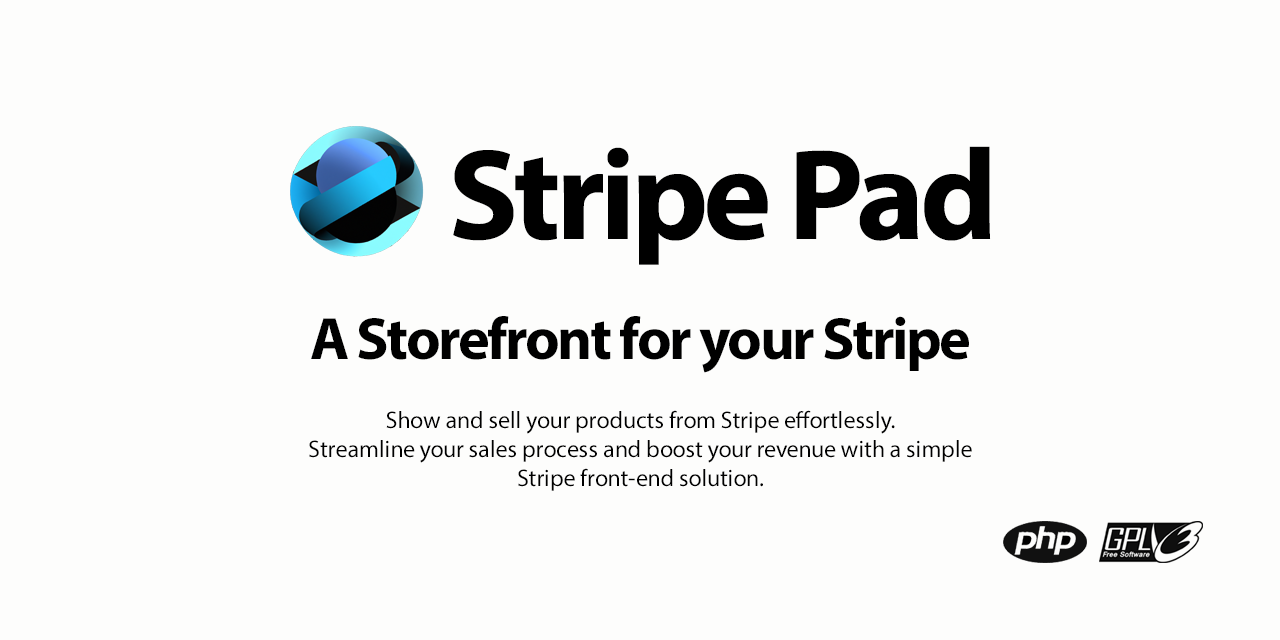
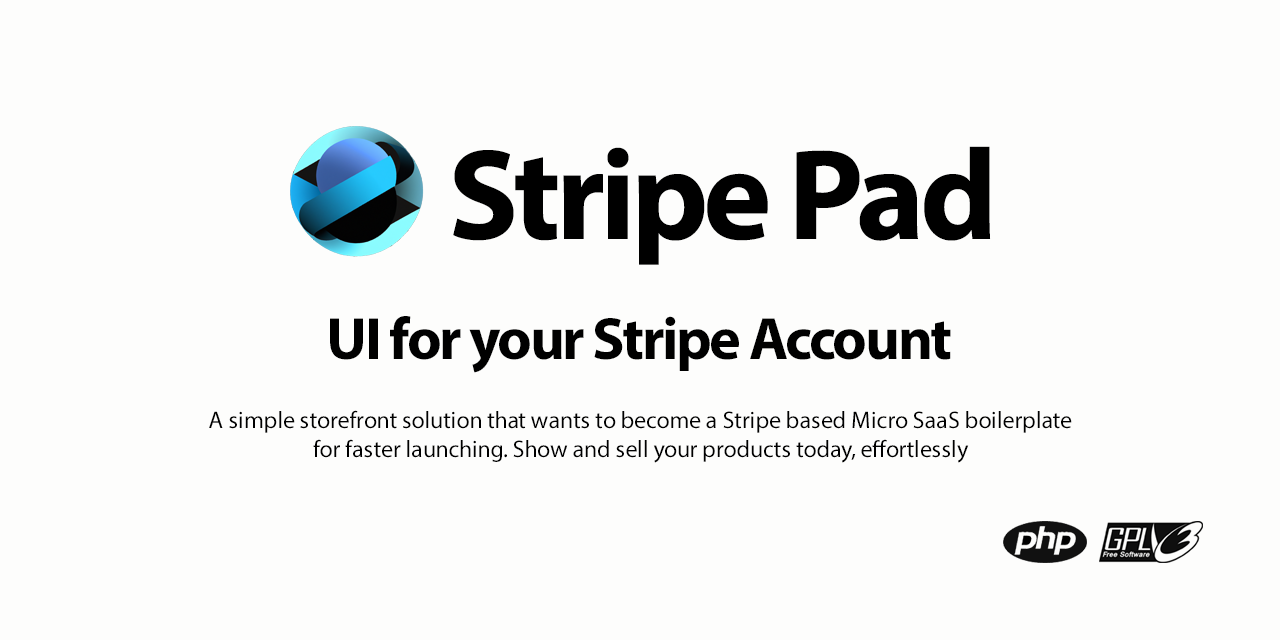
Finish readme

Changed region(s): [[0.1562, 0.625, 0.8438, 0.7812], [0.2188, 0.5, 0.7812, 0.5938]]

diff --git a/README.md b/README.md
@@ -17,7 +17,7 @@ By
 
 > 🚧 **This project is heavily under construction!** 🚧 As excited as you may be, we don't recommend this early alpha for production use. Still, give it a try if you want to have some fun and don't mind.
 
-[Stripe Pad](https://stripepad.com) is the simplest way to start selling your Stripe products and subscriptions. It is a Php package that helps you sell your products quickly and easily. It connects to your Stripe account and acts as an UI, there is no database, just a Json file. 
+[Stripe Pad](https://stripepad.com) is the simplest way to start selling your Stripe products and subscriptions. A simple storefront solution that wants to become a Stripe based Micro SaaS boilerplatefor faster launching. Show and sell your products today, effortlessly. It connects to your Stripe account and acts as an UI, there is no database, just a Json file. 
 
 ` You can think of Stripe pad as a public UI for your Stripe Account. `
 
@@ -27,13 +27,13 @@ Once installed, your frontstore will be ready to:
 
 - 🚀 **Show your products to visitors with direct links to Stripe.** and customize it later.
 - 🔖 **Manage webhooks calls from Stripe** to hook actions after a new subscription or a new payment is received.
-- 💧 **Ready to build** clone any of the starter themes to build your landing page. The Signup button could link directly to a product payment process at Stripe.
+- 💧 **Ready to make money** clone any of the starter themes to build your landing page. The Signup button could link directly to a product payment process at Stripe.
 
 ### [📣 Find our full announcement post here →](https://www.indiehackers.com/post/stripe-pad-a-storefront-a-micro-saas-boilerplate-for-your-stripe-php-or-nodejs-2579dd2504)
 
 ## Technologies used
 
-It's a very simple and rudimentary architecture on purpose, less code, less debt, less long-term commitment. The focus is on the short-term, in providing a fast website with Stripe integration to validate a business or product idea, while having a starting point that doesn't make you lose time, when starting up or later.
+It's a very simple and rudimentary architecture on purpose, less code, less debt, less long-term commitment. The focus is on the short-term, in generating a website with Stripe integration to validate a business or product idea fast, while having a starting point that doesn't make you lose time, when starting up or later.
 
 1. Php
 2. Vanilla Js
@@ -82,10 +82,9 @@ define('Theme','[Folder name of your new theme]');
 ```
 You can fully edit the look and feel of the front-end as per your need. Best of luck validating your product idea, take in mind:
 
-- Any customization should be done by editing the files directly.
-- If you modify code outside of /themes folder please create a pull request.
-- If you create a new theme, please share it! Create a pull request.
-- Don't modify basic themes, clone one of them and start your "landing" from there.
+- Any customization should be done by editing themes files directly.
+- If you modify code outside of /themes folder, please create a pull request.
+- If you create a new theme, please share it creating a pull request.
 - DebugMode also acts like a switch between Stripe Keys (live/test)
 - Don't modify data.json as it will be overwritten if you ever add new products for example.
 
@@ -101,7 +100,12 @@ When you are ready to publish it online:
 
 
 ## Development Internals
+
+cache/data.json is what allows Stripe Pad to maintain the different components 100% decoupled and no database involved.
+
+
 The main index.php includes the theme files defined in config.php, in case cache folder is empty, data will be retrieved from webhooks/stripeGetDetails.php and store the json in cache/data.json right before including index.php file from selected theme, which will receive $stripeData array with all account and product details.
+
 
 In case you want to clean cache, just remove the file.
 
